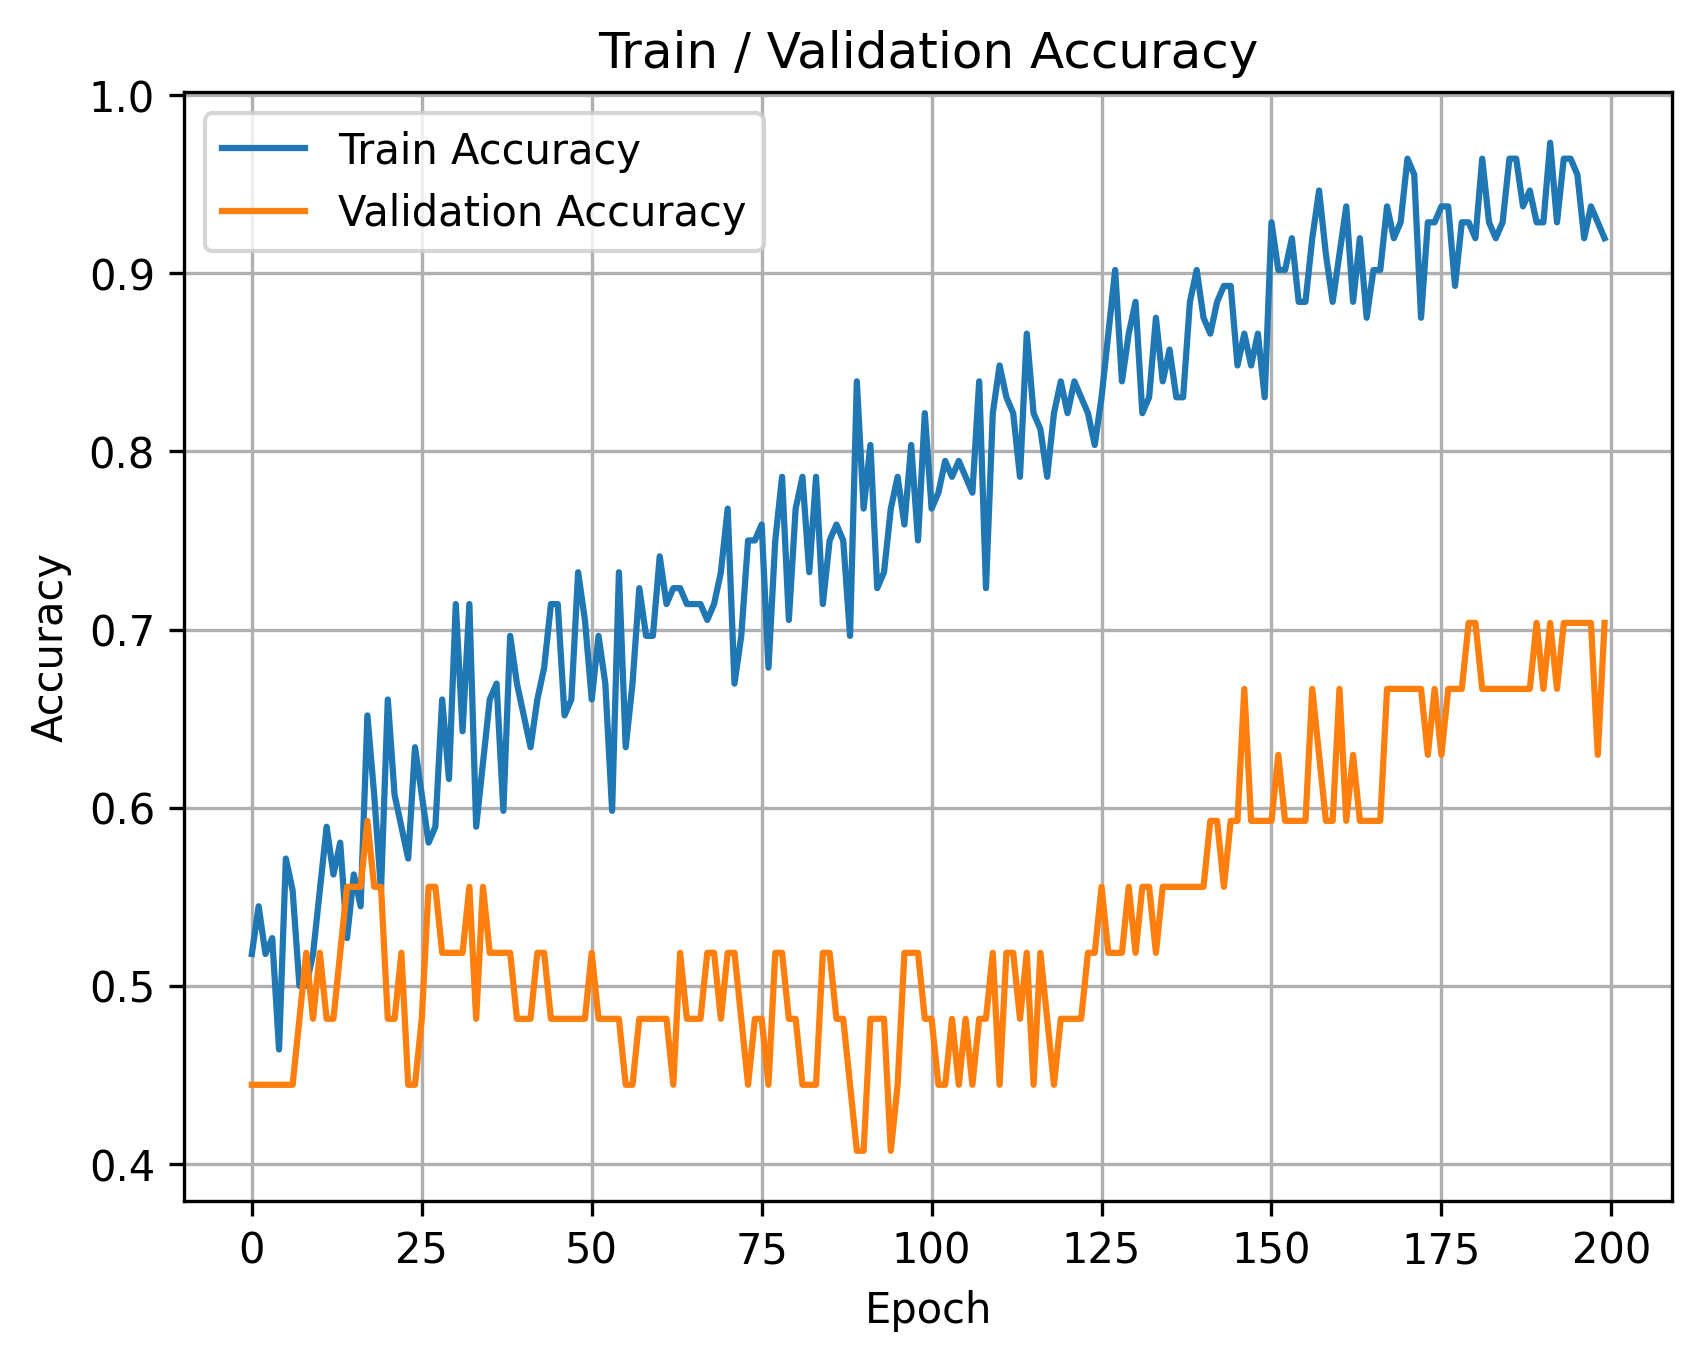
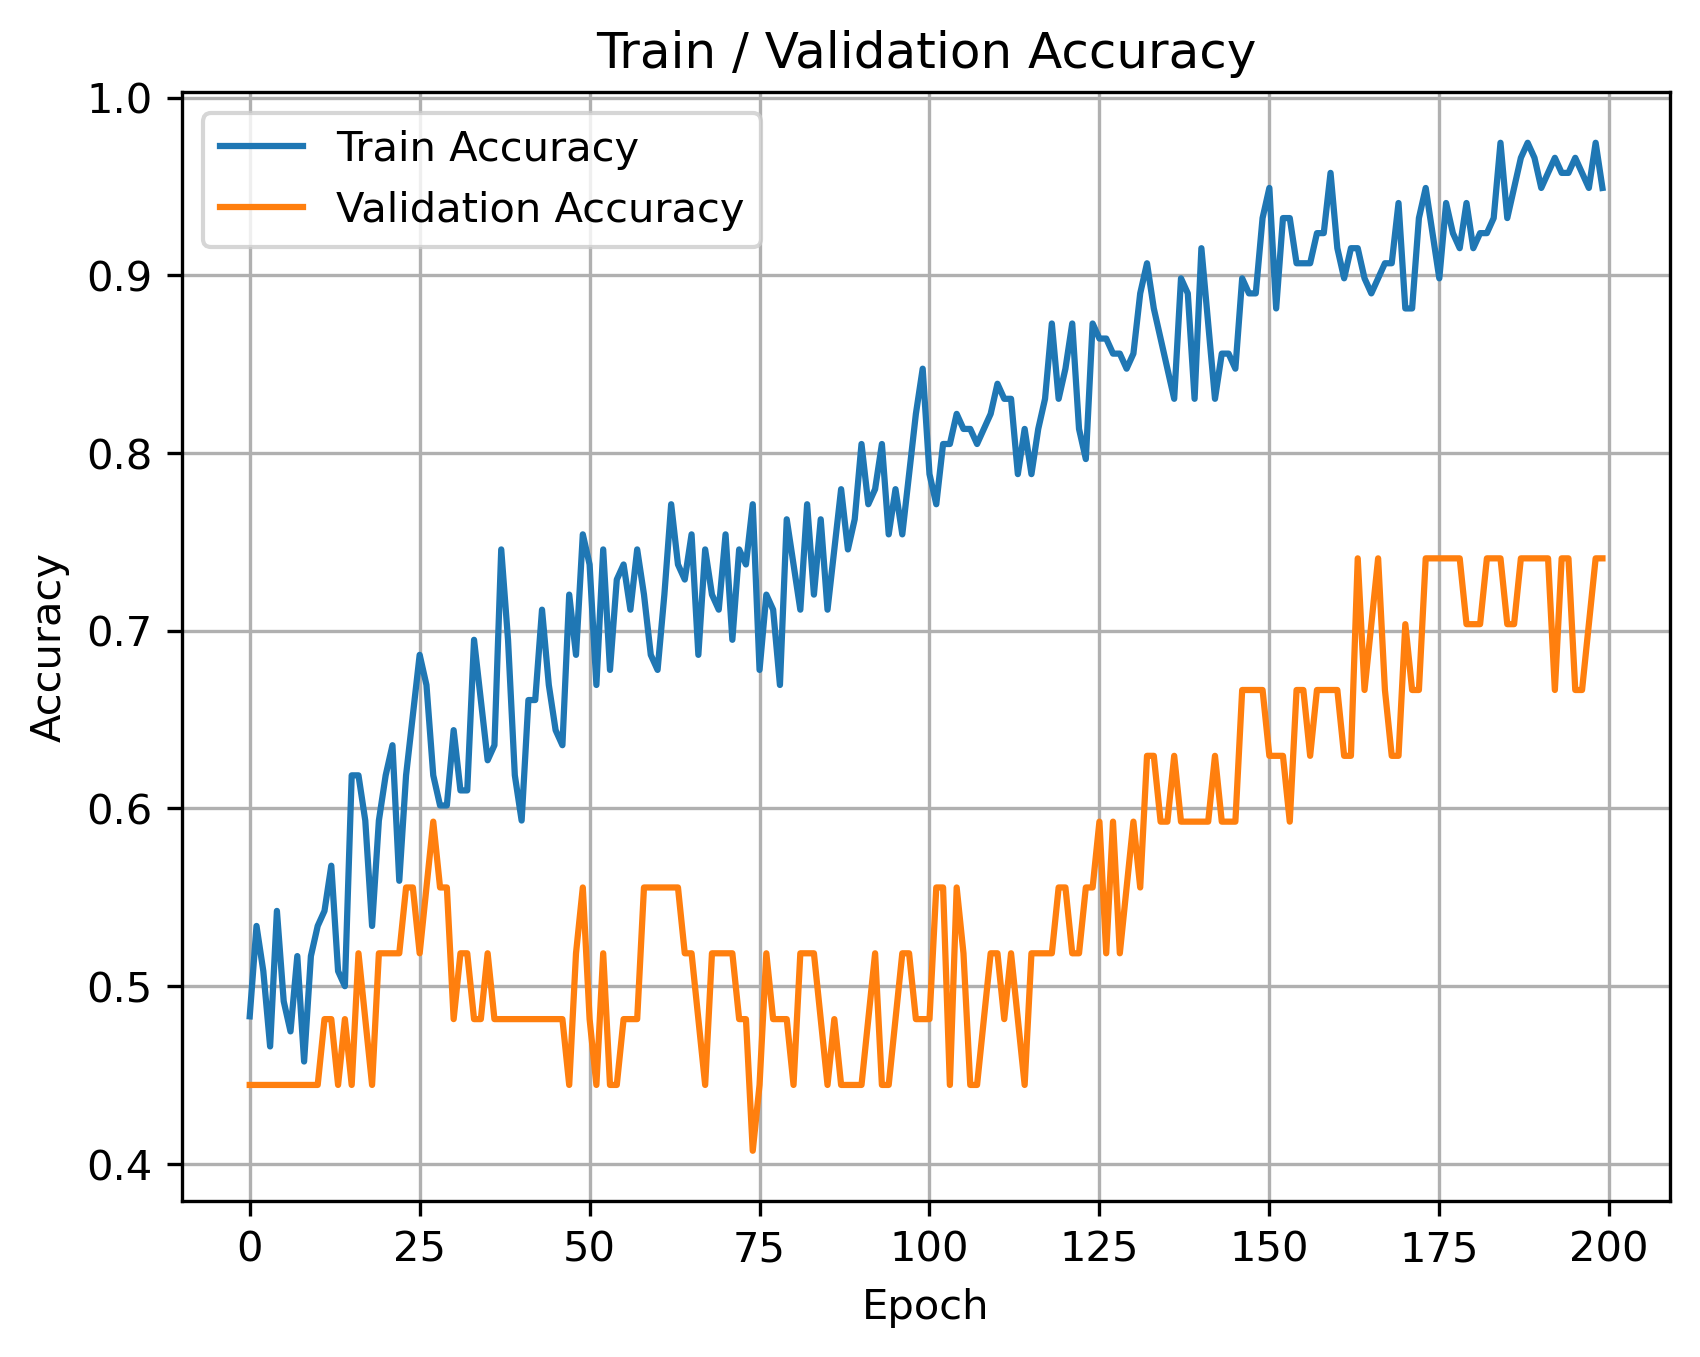
edit file path

Changed region(s): [[0.0, 0.031, 0.9976, 0.9285], [0.6235, 0.4333, 0.6547, 0.4952], [0.4988, 0.9595, 0.5612, 0.9904]]

diff --git a/lecture_5/DNN_binary_classification.py b/lecture_5/DNN_binary_classification.py
@@ -95,8 +95,18 @@ train_label = keras.utils.to_categorical(train_label, n_class)  # label encoding
 test_label = keras.utils.to_categorical(test_label, n_class)  # label encoding of test data
 
 # Dataset 구성(desc, label을 묶어서 제공)
-train_dataset = tf.data.Dataset.from_tensor_slices((train_input, train_label)).shuffle(100000).batch(n_batch, drop_remainder=True).repeat()
-test_dataset = tf.data.Dataset.from_tensor_slices((test_input, test_label)).batch(n_batch)
+train_dataset = (
+    tf.data.Dataset.from_tensor_slices((train_input, train_label))
+    .shuffle(buffer_size=len(train_input), seed=seed)
+    .batch(n_batch)
+    .prefetch(tf.data.AUTOTUNE)
+)
+
+test_dataset = (
+    tf.data.Dataset.from_tensor_slices((test_input, test_label))
+    .batch(n_batch)
+    .prefetch(tf.data.AUTOTUNE)
+)
 
 
 # 모델 생성
@@ -147,17 +157,19 @@ model.compile(
 #     restore_best_weights=True
 # )
 
-steps_per_epoch = n_train // n_batch
-validation_steps = int(np.ceil(n_test / n_batch))
+print("train batches:", tf.data.experimental.cardinality(train_dataset).numpy())
+print("test batches:", tf.data.experimental.cardinality(test_dataset).numpy())
+print("n_train:", len(train_input))
+print("n_test:", len(test_input))
+print("batch:", n_batch)
+
 
 # 학습
-history = model.fit(train_dataset,
-                    epochs=n_epoch,
-                    steps_per_epoch=steps_per_epoch,
-                    validation_data=test_dataset,
-                    validation_steps=validation_steps
-                    #callbacks=[early_stop]
-                    )
+history = model.fit(
+    train_dataset,
+    epochs=n_epoch,
+    validation_data=test_dataset
+)
 
 #그래프
 os.makedirs(plot_dir, exist_ok=True)